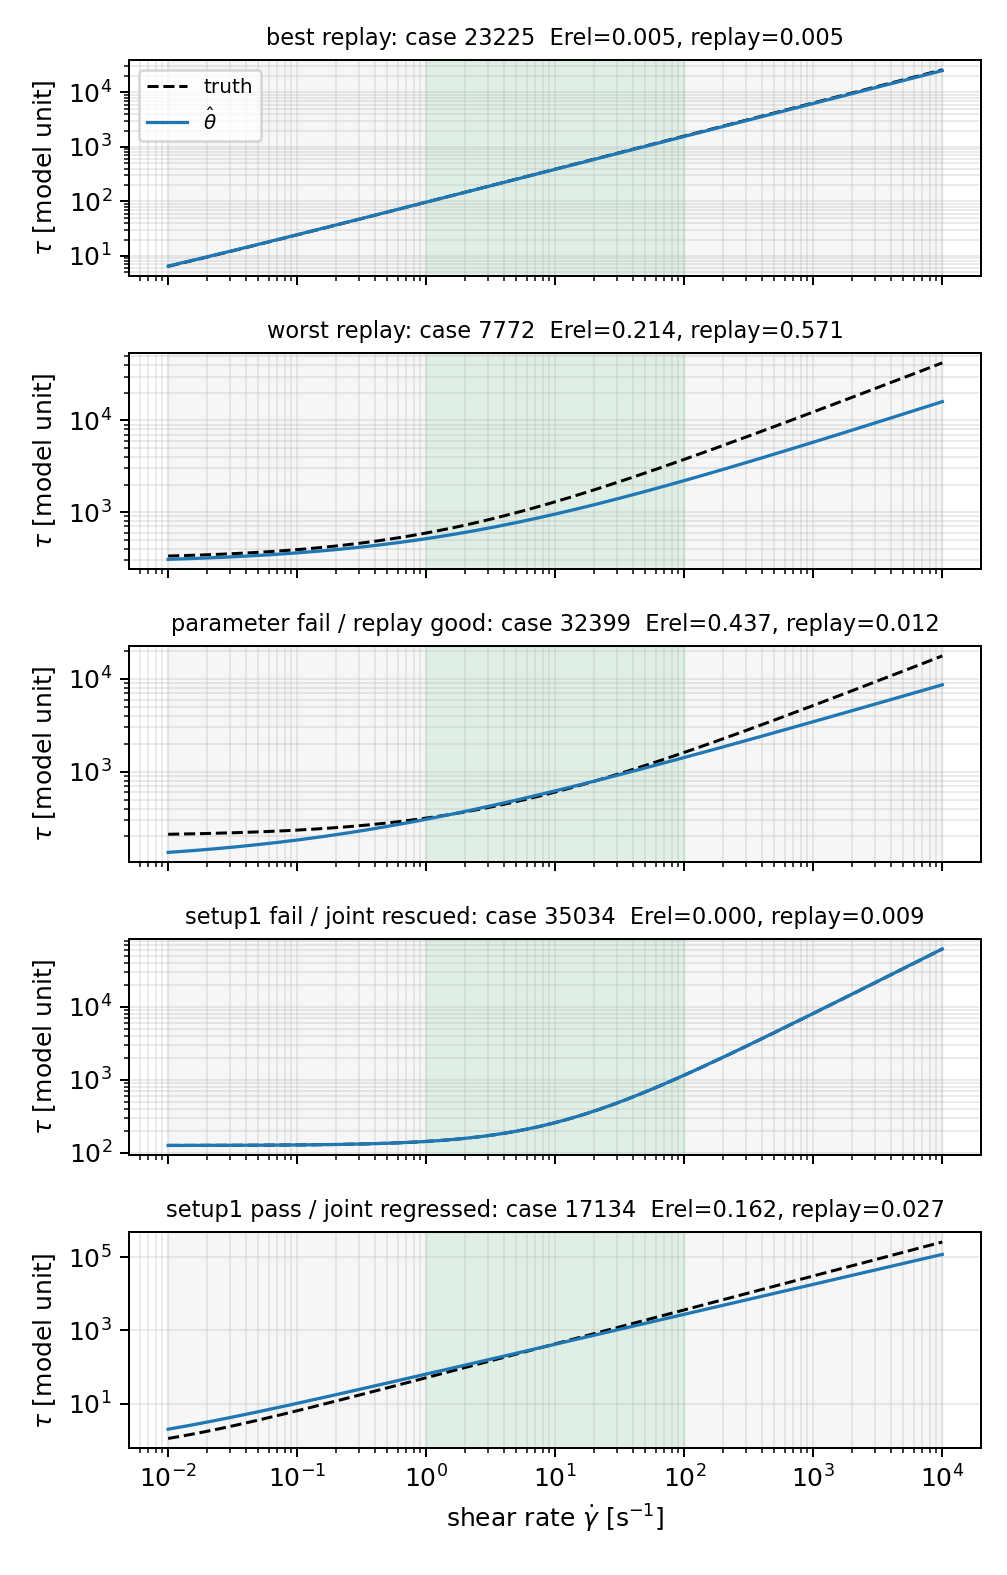
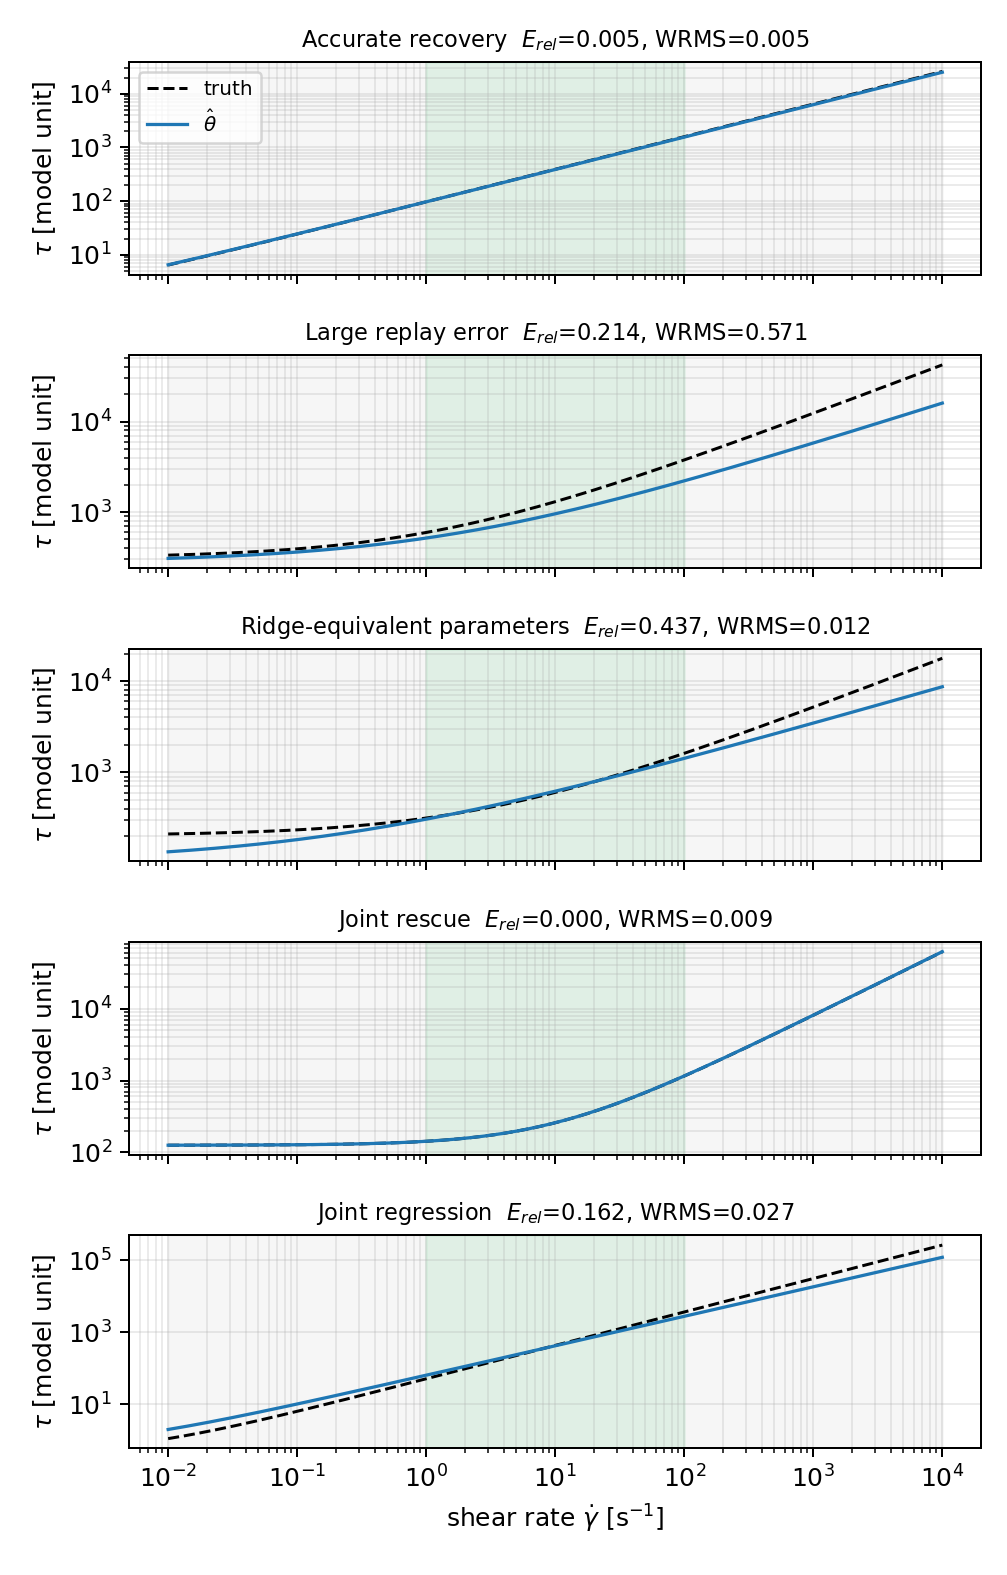
Use semantic labels in replay figures

diff --git a/body-journals.tex b/body-journals.tex
@@ -1868,7 +1868,7 @@ error and forward replay error are correlated but not identical:
 sliding along the HB ridge can move $\eta$ and $\sigma_Y$ while leaving
 the dam-break trajectory nearly unchanged.  We therefore also report
 flow-curve overlays and the actual $\dot\gamma$ ranges visited by
-representative replay cases in Figs.~\ref{fig:flowcurve-syn} and
+diagnostic replay categories in Figs.~\ref{fig:flowcurve-syn} and
 \ref{fig:gamma-replay}.
 
 \begin{figure}[!htbp]
@@ -1893,19 +1893,21 @@ can agree with the ground-truth curve over the shear-rate range
 probed by the dam-break experiment, even when the parameter triple
 itself slides along the $(\eta,\sigma_Y)$ ridge.
 Figure~\ref{fig:flowcurve-syn} overlays $\hat\tau$ on the ground
-truth for representative panel cases selected from the replay
+truth for diagnostic panel categories selected from the replay
 diagnostic.
 
 \begin{figure}[!htbp]
     \centering
     \includegraphics[width=\columnwidth]{figs/results/flowcurve_representatives.png}
     \caption{Recovered flow curves $\hat\tau(\dot\gamma)$ (blue)
-    versus ground truth (black) on representative synthetic replay
-    cases.  The green band marks the conventional HB-fit
+    versus ground truth (black) on five diagnostic synthetic replay
+    categories: accurate recovery, large replay error,
+    ridge-equivalent parameters, joint rescue, and joint regression.
+    The green band marks the conventional HB-fit
     $1$--$100\,\mathrm{s}^{-1}$ range, while the surrounding grey band
     covers the wider rheometer-style shear-rate window.}
     \Description{Log-log Herschel-Bulkley flow-curve overlays for
-    representative synthetic cases selected from the replay diagnostic.}
+    diagnostic synthetic categories selected from the replay diagnostic.}
     \label{fig:flowcurve-syn}
 \end{figure}
 
@@ -1913,14 +1915,15 @@ diagnostic.
     \centering
     \includegraphics[width=\columnwidth]{figs/results/gamma_representatives.png}
     \caption{Particle-level shear-rate coverage during MLS-MPM replay
-    of representative synthetic cases.  Vertical bars show the
+    of the same five diagnostic categories as Fig.~\ref{fig:flowcurve-syn}.
+    Vertical bars show the
     $5$--$95$ percentile range of $\dot\gamma$ over particles and
     frames; dots show the median.  Most replay trajectories spend
     substantial mass inside the HB-fit window, explaining why flow
     curves remain meaningful even when the parameter triple moves
     along an identifiability ridge.}
-    \Description{Shear-rate percentile ranges for representative
-    MLS-MPM replay cases, with rheometer and HB-fit windows shaded.}
+    \Description{Shear-rate percentile ranges for five diagnostic
+    MLS-MPM replay categories, with rheometer and HB-fit windows shaded.}
     \label{fig:gamma-replay}
 \end{figure}
 
